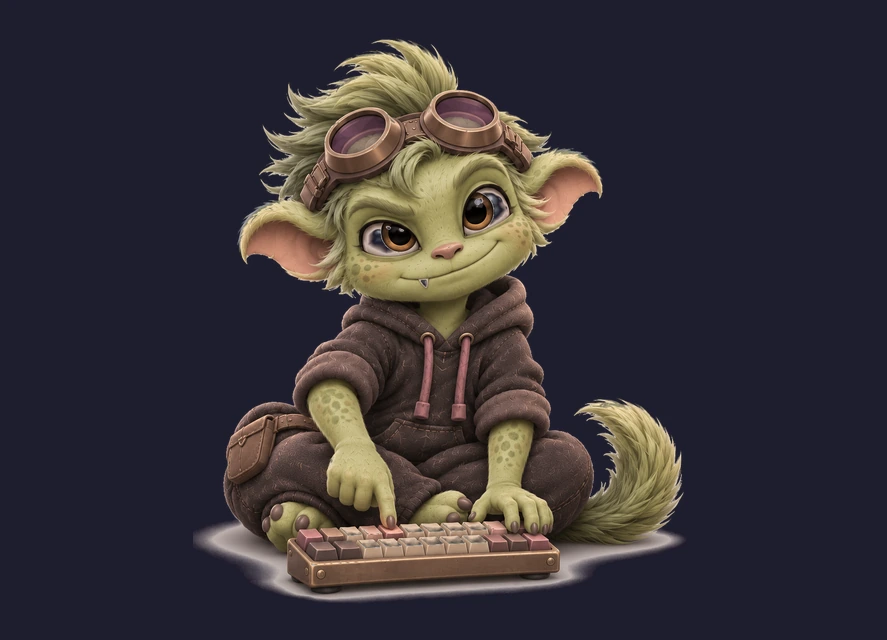
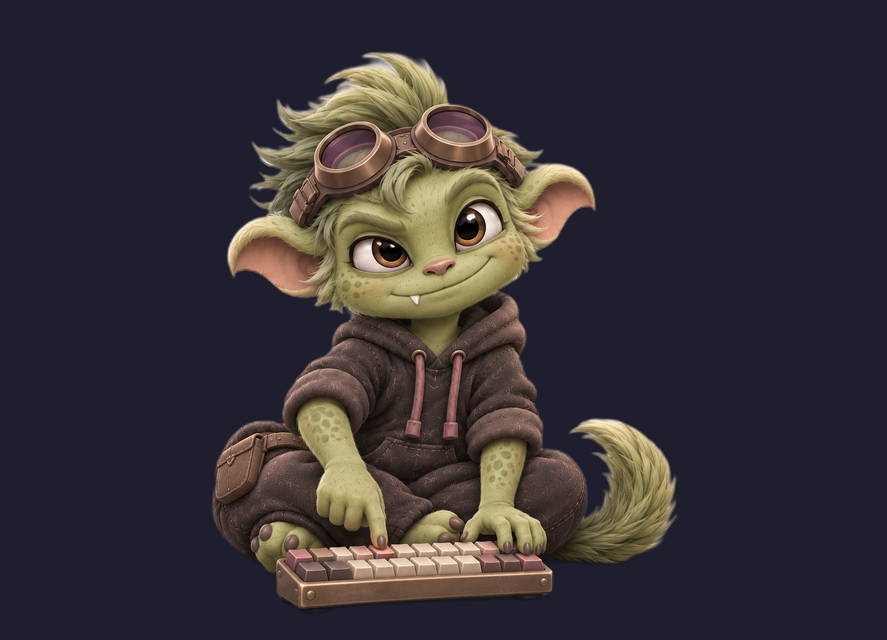
fix(profile): clean matte for the hero (#70)

Changed region(s): [[0.2131, 0.0625, 0.7914, 0.9688]]

diff --git a/profile/assets/brand/hero/README.md b/profile/assets/brand/hero/README.md
@@ -14,6 +14,6 @@ every surface. Copy the alt text verbatim.
 
 Consumers copy these files byte for byte and never re-encode them downstream.
 
-The keyboard-press hero is a matte of the 22/11/2026 key-press reference on the `#1e1e2e` plate; it is not produced by `hero.py`.
+The keyboard-press hero is the U2Net (rembg) matte of the 22/11/2026 key-press reference, composed on the `#1e1e2e` plate at 887 x 640 (character 560 px high, 24 px clear under the keyboard), stored lossless so the plate stays exact; it is not produced by `hero.py`. Colour-keying was dropped: it left grey halos and ate light pixels in the eyes and fang.
 
 Regenerate with `python3 ../mark/hero.py`: the hero is the `working` state from `../mark/character.py`, drawn as vector and encoded here. Never edit these files by hand.
